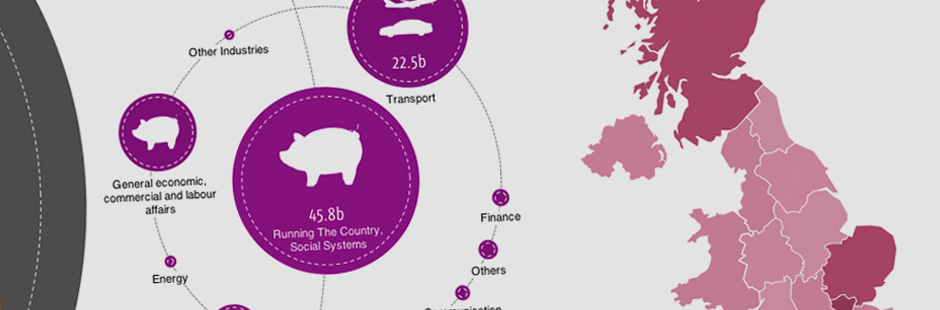
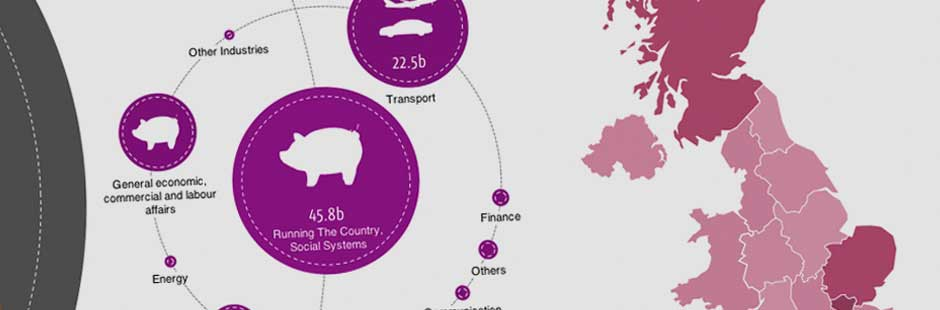
scale down images on home page.

diff --git a/openspending/ui/templates/home/index.html b/openspending/ui/templates/home/index.html
@@ -26,7 +26,7 @@
      <div class="span16 fp-mapping">
        <div class="row fp-frame">
          <div class="slideshow span16">
-           <img src="${h.static('img/home/mapping.png')}" />
+           <img src="${h.static('img/home/mapping.jpg')}" />
            <img src="${h.static('img/home/nerds.jpg')}" />
            <img src="${h.static('img/home/bubbles.jpg')}" />
          </div>
